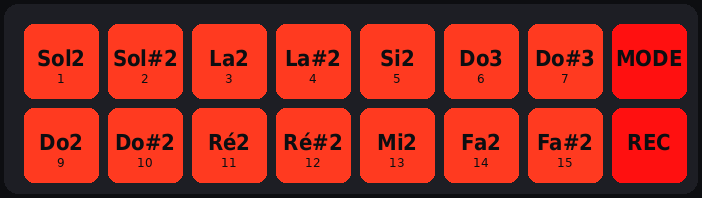
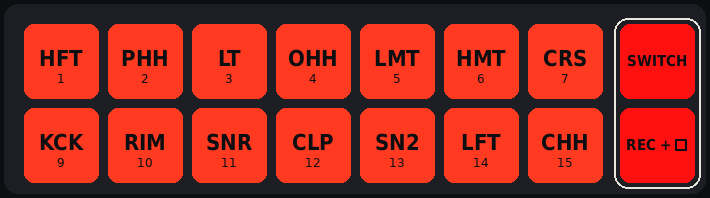
README and doc 22: every pad mode drawn; SWITCH and REC + pad framed on the right; drum pads by instrument
Claude-Session: https://claude.ai/code/session_01N9f4HJn3ZZ4mEGDi7YNfQW

diff --git a/docs/_FR/22-reperes-ecran-et-menus.md b/docs/_FR/22-reperes-ecran-et-menus.md
@@ -218,7 +218,7 @@ Tous les paramètres du son de la ligne : oscillateurs, filtre, enveloppes, puis
 
 ## Les pads
 
-16 pads : 14 de jeu, MODE en haut à droite (une tape : le mode suivant, le pad prend sa couleur), REC en bas à droite. Le bouton > (PAD/STEP) fait aussi le tour des modes.
+16 pads : 14 de jeu, et à droite (encadrés) MODE en haut, SWITCH : une tape = le mode suivant, le pad prend sa couleur ; REC en bas : REC + un pad. Le bouton > (PAD/STEP) fait aussi le tour des modes.
 
 ### CLIPS
 
@@ -234,7 +234,7 @@ Le kit propre aux pads, sortie canal MIDI 10. REC tenu : les 5 kits sur les 5 pr
 
 ![DRUMS](../img/pads-drums.png)
 
-**Sol2** Tom grave, **Sol#2** Charley pédale, **La2** Tom moyen, **La#2** Charley ouvert, **Si2** Tom médium, **Do3** Tom aigu, **Do#3** Crash, **Do2** Grosse caisse, **Do#2** Rimshot, **Ré2** Caisse claire, **Ré#2** Clap, **Mi2** Caisse claire 2, **Fa2** Tom basse, **Fa#2** Charley fermé.
+**HFT** Tom grave (G2, note 43), **PHH** Charley pédale (G#2, note 44), **LT** Tom moyen (A2, note 45), **OHH** Charley ouvert (A#2, note 46), **LMT** Tom médium (B2, note 47), **HMT** Tom aigu (C3, note 48), **CRS** Crash (C#3, note 49), **KCK** Grosse caisse (C2, note 36), **RIM** Rimshot (C#2, note 37), **SNR** Caisse claire (D2, note 38), **CLP** Clap (D#2, note 39), **SN2** Caisse claire 2 (E2, note 40), **LFT** Tom basse (F2, note 41), **CHH** Charley fermé (F#2, note 42).
 
 ### PERFORM
 
@@ -258,7 +258,7 @@ Scènes 1–8 à la mesure suivante (vif : la dernière, pâle : enregistrée). 
 
 ![MIDI](../img/pads-midi.png)
 
-**Sol2** Note 43, canal 16, **Sol#2** Note 44, canal 16, **La2** Note 45, canal 16, **La#2** Note 46, canal 16, **Si2** Note 47, canal 16, **Do3** Note 48, canal 16, **Do#3** Note 49, canal 16, **Do2** Note 36, canal 16, **Do#2** Note 37, canal 16, **Ré2** Note 38, canal 16, **Ré#2** Note 39, canal 16, **Mi2** Note 40, canal 16, **Fa2** Note 41, canal 16, **Fa#2** Note 42, canal 16.
+**G2** Note 43, canal 16, **G#2** Note 44, canal 16, **A2** Note 45, canal 16, **A#2** Note 46, canal 16, **B2** Note 47, canal 16, **C3** Note 48, canal 16, **C#3** Note 49, canal 16, **C2** Note 36, canal 16, **C#2** Note 37, canal 16, **D2** Note 38, canal 16, **D#2** Note 39, canal 16, **E2** Note 40, canal 16, **F2** Note 41, canal 16, **F#2** Note 42, canal 16.
 
 ## Les sons
 

diff --git a/docs/_EN/22-screen-keyboard-and-menus.md b/docs/_EN/22-screen-keyboard-and-menus.md
@@ -218,7 +218,7 @@ Every parameter of the line's sound: oscillators, filter, envelopes, then the mo
 
 ## The pads
 
-16 pads: 14 to play, MODE top right (a tap: the next mode, the pad takes its colour), REC bottom right. The > button (PAD/STEP) also goes round the modes.
+16 pads: 14 to play, and on the right (framed) MODE at the top, SWITCH: a tap = the next mode, the pad takes its colour; REC at the bottom: REC + a pad. The > button (PAD/STEP) also goes round the modes.
 
 ### CLIPS
 
@@ -234,7 +234,7 @@ The pads' own drum kit, out on MIDI channel 10. REC held: the 5 kits on the firs
 
 ![DRUMS](../img/pads-drums.png)
 
-**Sol2** High floor tom, **Sol#2** Pedal hat, **La2** Low tom, **La#2** Open hat, **Si2** Low-mid tom, **Do3** Hi-mid tom, **Do#3** Crash, **Do2** Kick, **Do#2** Rimshot, **Ré2** Snare, **Ré#2** Clap, **Mi2** Snare 2, **Fa2** Low floor tom, **Fa#2** Closed hat.
+**HFT** High floor tom (G2, note 43), **PHH** Pedal hat (G#2, note 44), **LT** Low tom (A2, note 45), **OHH** Open hat (A#2, note 46), **LMT** Low-mid tom (B2, note 47), **HMT** Hi-mid tom (C3, note 48), **CRS** Crash (C#3, note 49), **KCK** Kick (C2, note 36), **RIM** Rimshot (C#2, note 37), **SNR** Snare (D2, note 38), **CLP** Clap (D#2, note 39), **SN2** Snare 2 (E2, note 40), **LFT** Low floor tom (F2, note 41), **CHH** Closed hat (F#2, note 42).
 
 ### PERFORM
 
@@ -258,7 +258,7 @@ Scenes 1–8 on the next bar (bright: the last one, pale: stored). Then the trac
 
 ![MIDI](../img/pads-midi.png)
 
-**Sol2** Note 43, channel 16, **Sol#2** Note 44, channel 16, **La2** Note 45, channel 16, **La#2** Note 46, channel 16, **Si2** Note 47, channel 16, **Do3** Note 48, channel 16, **Do#3** Note 49, channel 16, **Do2** Note 36, channel 16, **Do#2** Note 37, channel 16, **Ré2** Note 38, channel 16, **Ré#2** Note 39, channel 16, **Mi2** Note 40, channel 16, **Fa2** Note 41, channel 16, **Fa#2** Note 42, channel 16.
+**G2** Note 43, channel 16, **G#2** Note 44, channel 16, **A2** Note 45, channel 16, **A#2** Note 46, channel 16, **B2** Note 47, channel 16, **C3** Note 48, channel 16, **C#3** Note 49, channel 16, **C2** Note 36, channel 16, **C#2** Note 37, channel 16, **D2** Note 38, channel 16, **D#2** Note 39, channel 16, **E2** Note 40, channel 16, **F2** Note 41, channel 16, **F#2** Note 42, channel 16.
 
 ## The sounds
 

diff --git a/README.md b/README.md
@@ -35,7 +35,9 @@ come in turn (OPTION CONTROL: HELP AT START).
 
 <p align="center"><img src="docs/img/keys-at-a-glance.png" width="560" alt="Every layer of the SMK-37's screen keyboard with its keys' names"></p>
 
-<p align="center"><img src="docs/img/pads-perform.png" width="560" alt="The pads in PERFORM: loops, slicer, filters, delay, crush, break, solo, all out, all off; MODE and REC on the right"></p>
+The 16 pads, mode by mode; framed on the right, **SWITCH** (MODE: the next mode) and **REC + ▢** (REC + a pad: keep):
+
+<p align="center"><img src="docs/img/pads-all-modes.png" width="560" alt="The pads in each mode: CLIPS, DRUMS, PERFORM, SCENES, MIDI; on the right SWITCH and REC + a pad"></p>
 
 Every layer, the buttons, the set-up menus, the pads and the sounds:
 **[22 — At a glance](docs/_EN/22-screen-keyboard-and-menus.md)** · 🇫🇷 **[22 — Repères](docs/_FR/22-reperes-ecran-et-menus.md)**
